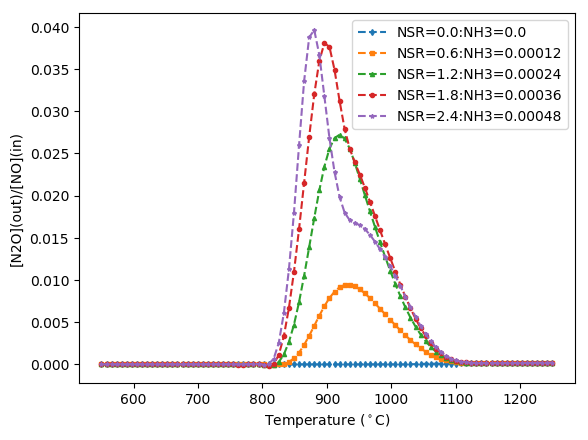
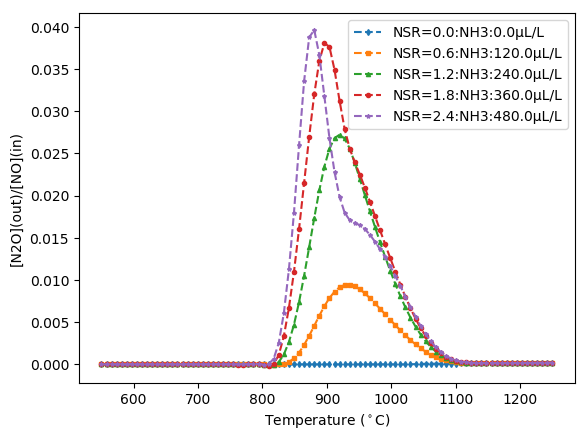
plot NSR Residence Exp

Changed region(s): [[0.5816, 0.0591, 0.949, 0.2955]]

diff --git a/AllFig4Thesis.py b/AllFig4Thesis.py
@@ -59,7 +59,7 @@ class plotData:
             species=indicator.split(" ")[2]
             plt.xlabel('Temperature ($^\circ$C)',fontsize=self.axissize)
             plt.ylabel("["+species+"](out)/[NO](in)",fontsize=self.axissize)            
-            plt.legend(['0ppm additive','300ppm additive#1','900ppm addtive #1','300ppm additive#2','900ppm additive#2'],fontsize=self.lgdsize)
+            plt.legend(['0μL/L additive','300μL/L additive#1','900μL/L addtive #1','300μL/L additive#2','900μL/L additive#2'],fontsize=self.lgdsize)
             plt.savefig("DataAnalyse\\Fig\\"+indicator.replace(" ","")+".png",bbox_inches='tight')   
             plt.close()
         draw_image(indicator='Mole fraction NO end point')
@@ -106,7 +106,7 @@ class plotData:
                     f=interp1d(dataSet['Temperature C1 PFR PFR (C1)_(C)'],dataSet[indicator],kind='slinear')
                     temperature_new=np.linspace(100,1240,num=90,endpoint=True)
                     plt.plot(temperature_new,f(temperature_new)/(200e-6),symbol[k%7]+'--',markersize=self.mkrSize-2)
-                    lgd.append('Addtive#'+str(i+1)+'='+"{:.4f}".format(h2/h2_percentage[i]))                    
+                    lgd.append('Addtive#'+str(i+1)+':'+"{:.0f}μL/L".format(h2/h2_percentage[i]*1e6))                    
                 plt.legend(lgd,fontsize=self.lgdsize)
                 plt.savefig("DataAnalyse\\Fig\\"+ylbl.replace("/","")+".png",bbox_inches='tight')
         df2=pd.read_csv(r'DataAnalyse\CSV_4_SNCR\NSR_New__ADD_ITL.csv',header=0)
@@ -128,7 +128,7 @@ class plotData:
                 f=interp1d(dataSet['Temperature C1 PFR PFR (C1)_(C)'],dataSet[indicator],kind='cubic')
                 temperature_new=np.linspace(550,1250,num=90,endpoint=True)
                 plt.plot(temperature_new,f(temperature_new)/(200e-6),symbol[l%6]+'--',markersize=self.mkrSize-2)
-                lgd.append('NSR='+"{:.1f}".format(j*0.00012/0.0002)+":"+"NH3="+str(j*0.00012))                
+                lgd.append('NSR='+"{:.1f}".format(j*0.00012/0.0002)+":"+"NH3:"+str(j*0.00012*1e6)+"μL/L")                
             plt.legend(lgd,fontsize=self.axissize)
             plt.savefig("DataAnalyse\\Fig\\"+ylbl.replace("/","_")+".png",bbox_inches='tight')
             plt.close()
@@ -621,7 +621,7 @@ class plotData:
                 
             # plt.hold(True)
         plt.xlabel('Temperature ($^\circ$C)',fontsize=self.axissize)
-        plt.ylabel('[NO2](out)/[NO2](in)',fontsize=self.axissize)
+        plt.ylabel('[NO2](out)/[NO](in)',fontsize=self.axissize)
         plt.legend(handles=dataPoint,fontsize=self.lgdsize)
         #plt.show()
         plt.savefig("DataAnalyse\\Fig\\pressureNO2.png",bbox_inches='tight') 
@@ -804,8 +804,8 @@ class plotData:
         #plt.xlim((550,1100))
         plt.xlabel('Temperature ($^\circ$C)',fontsize=self.axissize)
         plt.ylabel('[NO](out)/[NO](in)',fontsize=self.axissize)
-        plt.legend(['Simulation 600μL/L Syngas#1','Simulation 600μL/L Syngas#1',
-                    'Experiment CO:H2=1:1','Experiment H2:CH4=1:1','Experiment H2:CH4=3:1'],fontsize=self.lgdsize)
+        plt.legend(['Simulation Syngas#1 600μL/L','Simulation Syngas#1 1200μL/L',
+                    'Experiment CO 300μL/L H2 300μL/L','Experiment H2 300μL/L CH4 300μL/L','Experiment H2 900μL/L CH4 300μL/L'],fontsize=self.lgdsize)
         plt.savefig("DataAnalyse\\Fig\\syngasQing1.png",bbox_inches='tight')
         plt.figure()
         data={}
@@ -821,8 +821,8 @@ class plotData:
         #plt.xlim((550,1100))
         plt.xlabel('Temperature ($^\circ$C)',fontsize=self.axissize)
         plt.ylabel('[NO](out)/[NO](in)',fontsize=self.axissize)
-        plt.legend(['Simulation 600μL/L Syngas#2','Simulation 600μL/L Syngas#2',
-                    'Experiment CO:H2=1:1','Experiment CO:H2=3:1'],fontsize=self.lgdsize)
+        plt.legend(['Simulation Syngas#2 600μL/L','Simulation Syngas#2 1200μL/L',
+                    'Experiment CO 300μL/L H2 300μL/L','Experiment CO 900μL/L H2 300μL/L'],fontsize=self.lgdsize)
         plt.savefig("DataAnalyse\\Fig\\syngasQing2.png",bbox_inches='tight')
 
         plt.figure()
@@ -842,9 +842,9 @@ class plotData:
         #plt.xlim((550,1100))
         plt.xlabel('Temperature ($^\circ$C)',fontsize=self.axissize)
         plt.ylabel('[NO](out)/[NO](in)',fontsize=self.axissize)
-        plt.legend(['Simulation 900μL/L Syngas#1','Experiment 900μL/L Syngas#1',
-                    'Simulation 300μL/L Syngas#1','Experiment 900μL/L Syngas#1',
-                    'Simulation 0μL/L Syngas#1','Experiment 0μL/L Syngas#1'],fontsize=self.lgdsize)
+        plt.legend(['Simulation Syngas#1 900μL/L','Experiment Syngas#1 900μL/L',
+                    'Simulation Syngas#1 300μL/L','Experiment Syngas#1 300μL/L',
+                    'Simulation Syngas#1 0μL/L','Experiment Syngas#1 0μL/L'],fontsize=self.lgdsize)
         plt.savefig("DataAnalyse\\Fig\\syngasYang1.png",bbox_inches='tight')
         data={}
         with pd.ExcelFile(r"DataAnalyse\Additive\data1ResultSynGasSNCR1.xlsx") as xls:
@@ -862,14 +862,32 @@ class plotData:
         #plt.xlim((550,1100))
         plt.xlabel('Temperature ($^\circ$C)',fontsize=self.axissize)
         plt.ylabel('[NO](out)/[NO](in)',fontsize=self.axissize)
-        plt.legend(['Simulation 900μL/L Syngas#2','Experiment 900μL/L Syngas#2',
-                    'Simulation 300μL/L Syngas#2','Experiment 900μL/L Syngas#2',
-                    'Simulation 0μL/L Syngas#2','Experiment 0μL/L Syngas#2'],fontsize=self.lgdsize)
+        plt.legend(['Simulation Syngas#2 900μL/L','Experiment Syngas#2 900μL/L',
+                    'Simulation Syngas#2 300μL/L','Experiment Syngas#2 300μL/L',
+                    'Simulation Syngas#2 0μL/L','Experiment Syngas#2 0μL/L'],fontsize=self.lgdsize)
         plt.savefig("DataAnalyse\\Fig\\syngasYang2.png",bbox_inches='tight')
+    def NSRRensidenceTimeExp(self):
+        def myplot(name,maxData):
+            
+            xls_file=pd.read_csv(r'DataAnalyse\\DataNSRResTime\\'+name+r'Exp.csv',header=0)
+            plt.plot(xls_file.x,xls_file.Curve1/maxData,'s')
+            xls_file=pd.read_csv(r'DataAnalyse\\DataNSRResTime\\'+name+r'Simulation.csv',header=0)
+            plt.plot(xls_file.x,xls_file.Curve1/maxData,'--')
+            plt.legend(["Experiment Data","Simulation Curve"],fontsize=self.lgdsize)
+        plt.figure()    
+        myplot("NSR",268)
+        plt.xlabel("NSR")
+        plt.ylabel('[NO](out)/[NO](in)',fontsize=self.axissize)
+        plt.savefig("DataAnalyse\\Fig\\NSRExp.png",bbox_inches='tight')
+        plt.figure()  
+        myplot("residenceTime",100)
+        plt.xlabel("Residence Time(s)")
+        plt.ylabel('[NO](out)/[NO](in)',fontsize=self.axissize)
+        plt.savefig("DataAnalyse\\Fig\\residenceTimeExp.png",bbox_inches='tight')      
 if __name__=='__main__':
     figPlotter=plotData('large')
     
-    
+ 
     figPlotter.verifyCaoQingXi()
     
     
@@ -896,6 +914,9 @@ if __name__=='__main__':
     figPlotter.AdditiveTemperatureShift()
    
     figPlotter.SynGasExp()
+ 
+    figPlotter.NSRRensidenceTimeExp()
+    
     
     
     
